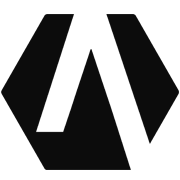
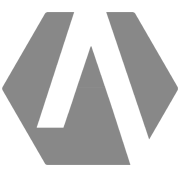
styling updates

diff --git a/src/components/layout/Layout.js b/src/components/layout/Layout.js
@@ -7,13 +7,13 @@ import { Header } from '../../components'
 
 
 export const Layout = props => {
-    const { title, description }                                              = useSiteMetadata()
-    const stylesContext                                                       = useContext(StylesContext)
-    const { MainContainer, OuterContainer, Footer, Stamp, isDarkTheme, }      = stylesContext
+    const { title, description }                          = useSiteMetadata()
+    const stylesContext                                   = useContext(StylesContext)
+    const { MainContainer, OuterContainer, Footer, }      = stylesContext
 
-    const location                                   = useLocation()
-    const [isArticle, setIsArticle]                  = useState(false)
-console.log(isDarkTheme)
+    const location                            = useLocation()
+    const [isArticle, setIsArticle]           = useState(false)
+
     useEffect(() => {
         if (location.pathname.includes('blog')) { setIsArticle(true) }
     
@@ -33,11 +33,7 @@ console.log(isDarkTheme)
                     {props.children}
                 </MainContainer>
 
-                {/* <Stamp 
-                        alt='hexAscent'
-                        src={isDarkTheme
-                            ? require(`./stamps/dark-gray_md.png`).default
-                            : require(`./stamps/light-gray_md.png`).default} /> 
+                {/*
                 <Stamp
                     alt='hexAscent'
                     src={require(`./stamps/dark-gray_md.png`).default} />*/}

diff --git a/src/pages/blog/{mdx.slug}.js b/src/pages/blog/{mdx.slug}.js
@@ -5,12 +5,12 @@ import { MDXRenderer } from 'gatsby-plugin-mdx'
 import { GatsbyImage, getImage } from 'gatsby-plugin-image'
 import { Link as ScrollLink, animateScroll as scroll } from 'react-scroll'
 import StylesContext from '../../context/stylesContext'
-import { Layout, Frontmatter, HexLink, Post, Seo, SpreadContainer, } from '../../components'
+import { Buffer, Layout, Frontmatter, HexLink, Post, Seo, SpreadContainer, } from '../../components'
 
 
 const BlogPost = ({ data, pageContext }) => {
-    const stylesContext                                      = useContext(StylesContext)
-    const { IndexWrapper, RegularButton, SmallContainer, }   = stylesContext 
+    const stylesContext                                                          = useContext(StylesContext)
+    const { IndexWrapper, RegularButton, SmallContainer, Stamp, isDarkTheme, }   = stylesContext 
 
     const { fields, frontmatter, }     = data.mdx 
     const image                        = getImage(data.mdx.frontmatter.hero_image)
@@ -60,8 +60,13 @@ console.log(fields.readingTime.text);
                 </ScrollLink>
             </SmallContainer>
             
+            <Stamp 
+                alt='hexAscent'
+                src={isDarkTheme
+                    ? require(`../stamps/dark-gray_md.png`).default
+                    : require(`../stamps/light-gray_md.png`).default} /> 
             
-
+            <Buffer thickness={8} />
             <IndexWrapper>
                 <h2>More Blogs</h2>
                 {data.allMdx.nodes.map(node => (

diff --git a/src/context/StylesProvider.js b/src/context/StylesProvider.js
@@ -130,7 +130,7 @@ const Footer = styled.section`
     a { text-decoration: none; }
 `
 const SmallContainer = styled.section`
-    margin: 15rem auto;
+    margin: 15rem auto 7rem auto;
     width: 100%;
 
     display: flex;
@@ -138,8 +138,8 @@ const SmallContainer = styled.section`
     justify-content: ${p => p.justify};
     align-items: ${p => p.align};
 
-    @media (min-width: 769px) { margin: 21rem auto; }
-    @media (min-width: 1280px) { margin: 25rem auto; }
+    /* @media (min-width: 769px) { margin: 21rem auto; }
+    @media (min-width: 1280px) { margin: 25rem auto; } */
 `
 
 // TEXT
@@ -253,8 +253,14 @@ const Parallax = styled.img`
     background-size: cover;
 `
 const Stamp = styled.img`
+    display: block;
     height: 20rem;
     width: 70rem;
+    margin 0 auto;
+
+    @media (max-width: 768px) { height: 15rem; width: 53rem; }
+    @media (max-width: 560px) { height: 10rem; width: 35rem; }
+    @media (max-width: 480px) { height: 7rem; width: 27rem; }
 `
 
 // PROVIDER COMPONENT
@@ -284,6 +290,7 @@ const StylesProvider = props => {
                 Thumbnail,
                 ProfilePic,
                 Parallax,
+                Stamp,
 
                 isDarkTheme,
                 handleThemeChange,

diff --git a/src/pages/index.js b/src/pages/index.js
@@ -1,7 +1,9 @@
 import * as React from 'react'
+import { useContext, } from 'react'
 import { graphql } from 'gatsby'
 import styled from 'styled-components'
-import { Layout, Post, Seo, } from '../components'
+import StylesContext from '../context/stylesContext'
+import { Buffer, Layout, Post, Seo, } from '../components'
 
 
 const IndexWrapper = styled.main`
@@ -13,7 +15,8 @@ const IndexWrapper = styled.main`
 `
 
 const BlogPage = ({ data }) => {
-
+    const stylesContext             = useContext(StylesContext)
+    const { Stamp, isDarkTheme, }   = stylesContext
     // console.log(data.allMdx.nodes)
     
     return (
@@ -26,6 +29,13 @@ const BlogPage = ({ data }) => {
                         linkTo={node.slug}
                         frontmatter={node.frontmatter}
                         readTime={node.fields.readingTime.text} />))}
+
+                <Buffer thickness={9} />
+                <Stamp 
+                    alt='hexAscent'
+                    src={isDarkTheme
+                        ? require(`./stamps/dark-gray_md.png`).default
+                        : require(`./stamps/light-gray_md.png`).default} /> 
             </IndexWrapper>
         </Layout>    
     )

diff --git a/src/components/buffer/Buffer.js b/src/components/buffer/Buffer.js
@@ -1,0 +1,7 @@
+import styled from 'styled-components'
+
+
+export const Buffer = styled.div`
+    height: ${p => `${p.thickness}rem`};
+    background: ${p => p.color};
+`

diff --git a/src/components/index.js b/src/components/index.js
@@ -1,3 +1,4 @@
+export * from './buffer/Buffer'
 export * from './code/Code'
 export * from './frontmatter/Frontmatter'
 export * from './header/Header'
